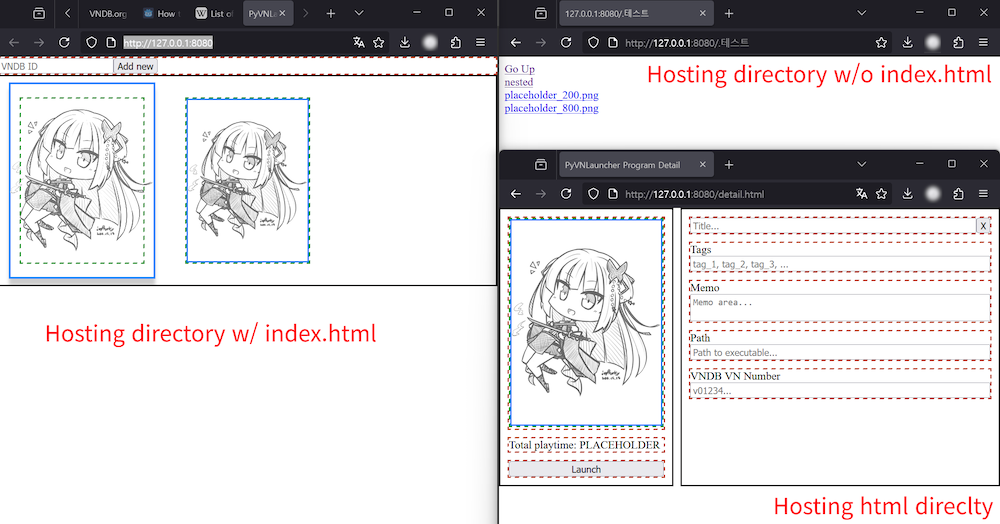
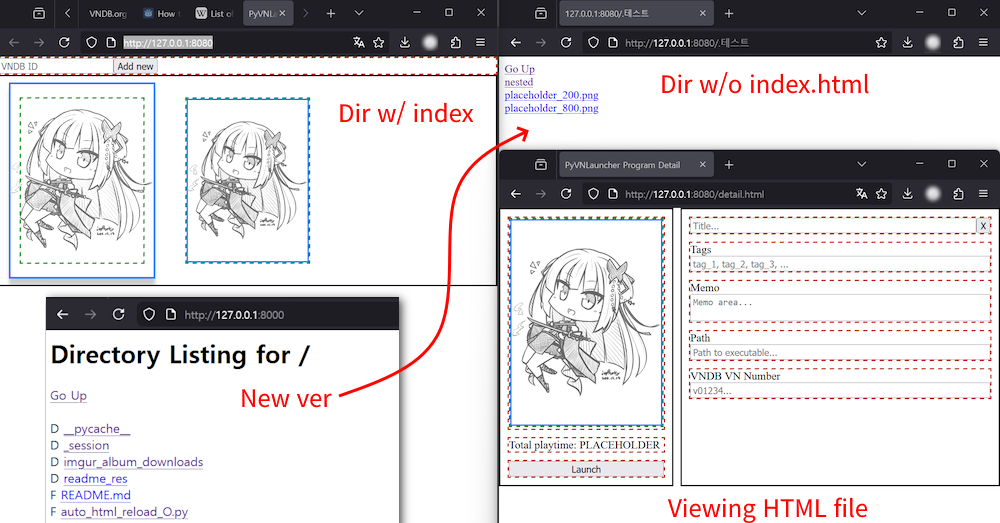
[dumb_pure_async_server_O.py] Backported subset of functionality from dumb_trio_api_server_m.py; Readme update

diff --git a/SingleScriptTools/dumb_pure_async_server_O.py b/SingleScriptTools/dumb_pure_async_server_O.py
@@ -5,6 +5,8 @@ Provides minimal-escape-protected file listing interface by default, can also se
 
 Rewrite of [stackoverflow answer](https://stackoverflow.com/a/70649803) I wrote.
 
+For slightly better structure, refer `dumb_pure_async_api_server_m.py`.
+
 ![](readme_res/dumb_async_server.png)
 
 :Author: jupiterbjy@gmail.com
@@ -13,7 +15,6 @@ Rewrite of [stackoverflow answer](https://stackoverflow.com/a/70649803) I wrote.
 import asyncio
 import pathlib
 from pprint import pprint
-from typing import Iterator
 from urllib.parse import unquote, quote
 from functools import partial
 
@@ -22,11 +23,34 @@ from functools import partial
 
 # --- Utilities ---
 
+def sanitize_path(root: pathlib.Path, rel_path: str) -> pathlib.Path | None:
+    """Sanitizes `subdir` relative to root.
+
+    Args:
+        root: Root directory currently being served
+        rel_path: Subdirectory relative to root
+
+    Returns:
+        Sanitized path or None if invalid
+    """
+
+    p = root / pathlib.PurePosixPath(rel_path)
+
+    # try normalizing dir, aka resolving `/../../bla` things
+    try:
+        p = p.resolve(strict=True)
+    except (FileNotFoundError, RuntimeError, OSError):
+        return None
+
+    # prevent escape by checking if root exists in parent list
+    if root != p and root not in p.parents:
+        return None
+
+    return p
+
 
 class HTTPUtils:
     """HTTP Header creation helper class"""
-
-    _SUFFIX = "Connection: close\r\n\r\n"
 
     _RESP_HEADER = {
         200: " 200 OK\r\n",
@@ -34,10 +58,6 @@ class HTTPUtils:
         404: " 404 Not Found\r\n",
         405: " 405 Method Not Allowed\r\n",
     }
-
-    _RESP_CONTENT_TEMPLATE = (
-        "Content-Type: {content_type}\r\nContent-Length: {content_len}\r\n"
-    )
 
     @classmethod
     def create_resp_header(
@@ -55,19 +75,26 @@ class HTTPUtils:
             HTTP response header string
         """
 
-        if not content_type:
-            return "".join((http_ver, cls._RESP_HEADER[status], cls._SUFFIX))
-
         return "".join(
             (
                 http_ver,
                 cls._RESP_HEADER[status],
-                cls._RESP_CONTENT_TEMPLATE.format(
-                    content_type=content_type, content_len=content_len
-                ),
-                cls._SUFFIX,
+                "Content-Type: {}\r\nContent-Length: {}\r\n".format(
+                    content_type, content_len
+                ) if content_len else "",
+                "Connection: close\r\n\r\n" if http_ver.startswith("HTTP/1") else "\r\n\r\n",
             )
         )
+
+    @classmethod
+    def create_html_resp(cls, http_ver, content: bytes) -> tuple[str, bytes]:
+        """Syntax sugar for creating HTML response header and pairing with body"""
+        return cls.create_resp_header(http_ver, 200, "text/html", len(content)), content
+
+    @classmethod
+    def create_bytes_resp(cls, http_ver, content: bytes) -> tuple[str, bytes]:
+        """Syntax sugar for creating octet stream response header and pairing with body"""
+        return cls.create_resp_header(http_ver, 200, "application/octet-stream", len(content)), content
 
     @staticmethod
     def parse_req(raw_req: str) -> dict[str, str]:
@@ -120,33 +147,59 @@ async def read_all(reader: asyncio.StreamReader, chunk_size: int = 1024) -> str:
 
 # --- Logics ---
 
-
-def _dir_html_link_gen(abs_dir: pathlib.Path, root: pathlib.Path) -> Iterator[str]:
-    """Yields anchor(`<a>`) elements for use as directory listing.
-    HTML files will not use `download` attribute and will be served as static files.
+def _generate_dir_listing_html(root: pathlib.Path, sanitized_abs_sub_path: pathlib.Path) -> str:
+    """Generates directory listing HTML for given directory.
 
     Args:
-        abs_dir: absolute path to dir to be listed
+        root: Root directory currently being served
+        sanitized_abs_sub_path: Absolute Subdirectory path that was sanitized
 
-    Yields:
-        html anchor element string
+    Returns:
+        HTML string
     """
 
-    for sub_path in abs_dir.iterdir():
-        # calc url path
-        relative = quote(
-            "/"
-            if abs_dir == root
-            else f"/{str(abs_dir.relative_to(root)).removeprefix("./")}/"
-        )
-        path_name = quote(sub_path.name)
+    # prep link for stepping back. Will trigger for root but better for safeguarding
+    try:
+        parent_str = sanitized_abs_sub_path.parent.relative_to(root).as_posix()
+        if parent_str == ".":
+            parent_str = ""
 
-        # if dir or html file then set href to it
-        if sub_path.is_dir() or sub_path.suffix.lower() == ".html":
-            yield f'<a href="{relative}{path_name}">{path_name}</a>'
+    except ValueError:
+        parent_str = ""
+
+    relative = quote(
+        "/"
+        if sanitized_abs_sub_path == root
+        else f"/{sanitized_abs_sub_path.relative_to(root).as_posix()}/"
+    )
+
+    lines: list[str] = [
+        f'<meta charset="UTF-8">\n'
+        f'<h1>Directory Listing for {relative}</h1>\n'
+        f'<a href="/{quote(parent_str)}">Go Up</a><br>'
+    ]
+
+    # sort stuff by name for each, so we can put dir first then file
+    listing = [*sanitized_abs_sub_path.iterdir()]
+    dirs = sorted([p for p in listing if p.is_dir()], key=lambda p: p.name)
+    files = sorted([p for p in listing if p.is_file()], key=lambda p: p.name)
+
+    for sub_p in dirs + files:
+
+        # make sure it's escaped
+        path_name = quote(sub_p.name)
+
+        # if dir or html, then set href to it
+        if sub_p.is_dir():
+            lines.append(f'D <a href="{relative}{path_name}">{sub_p.name}</a>')
+
+        elif sub_p.suffix.lower() == ".html":
+            lines.append(f'H <a href="{relative}{path_name}">{sub_p.name}</a>')
+
         else:
-            # else set as download
-            yield f'<a href="{relative}{path_name}" download="{path_name}">{path_name}</a>'
+            lines.append(f'F <a href="{relative}{path_name}" download="{path_name}">{sub_p.name}</a>')
+
+    return "<br>\n".join(lines)
 
 
 def _create_resp(req_dict: dict[str, str], root: pathlib.Path) -> tuple[str, bytes]:
@@ -155,6 +208,7 @@ def _create_resp(req_dict: dict[str, str], root: pathlib.Path) -> tuple[str, byt
 
     Args:
         req_dict: Parsed request dict
+        root: Currently served root directory
 
     Returns:
         (Header str, Body bytes) tuple
@@ -166,66 +220,27 @@ def _create_resp(req_dict: dict[str, str], root: pathlib.Path) -> tuple[str, byt
     if req_dict["Method"] != "GET":
         return HTTPUtils.create_resp_header(http_ver, 405), b""
 
-    # try normalizing the path
-    dir_ = root.joinpath(unquote(req_dict["Directory"]).removeprefix("/"))
-
-    try:
-        dir_ = dir_.resolve(strict=True)
-
-    except FileNotFoundError:
-        # unreachable path (or you have circular symlink for some reason)
+    dir_ = sanitize_path(root, req_dict["Directory"].removeprefix("/"))
+    if not dir_:
         return HTTPUtils.create_resp_header(http_ver, 404), b""
-
-    # check if it's subdir, if not kick the crap out of it
-    if root != dir_ and root not in dir_.parents:
-        return HTTPUtils.create_resp_header(http_ver, 403), b""
-
-    # TODO: check for permission error
 
     if dir_.is_dir():
 
         # if index.html exists direct to it
-        index_path = dir_ / "index.html"
+        idx_p = dir_ / "index.html"
 
-        if index_path.exists():
-            attach = index_path.read_text().encode("utf8")
-            return (
-                HTTPUtils.create_resp_header(http_ver, 200, "text/html", len(attach)),
-                attach,
-            )
+        if idx_p.exists():
+            return HTTPUtils.create_html_resp(http_ver, idx_p.read_text("utf8").encode("utf8"))
 
         # otherwise serve directory
-        try:
-            parent_str = str(dir_.parent.relative_to(root))
-            if parent_str == ".":
-                parent_str = ""
-
-        except ValueError:
-            parent_str = ""
-
-        parent_dir = f'<a href="/{quote(parent_str)}">Go Up</a><br>'
-        attach = (parent_dir + "<br>".join(_dir_html_link_gen(dir_, root))).encode("utf8")
-        return (
-            HTTPUtils.create_resp_header(http_ver, 200, "text/html", len(attach)),
-            attach,
-        )
+        return HTTPUtils.create_html_resp(http_ver, _generate_dir_listing_html(root, dir_).encode("utf8"))
 
     # is this html file?
     if dir_.suffix.lower() == ".html":
-        attach = dir_.read_text().encode("utf8")
-        return (
-            HTTPUtils.create_resp_header(http_ver, 200, "text/html", len(attach)),
-            attach,
-        )
+        return HTTPUtils.create_html_resp(http_ver, dir_.read_text().encode("utf8"))
 
     # otherwise just send as octet stream
-    attach = dir_.read_bytes()
-    return (
-        HTTPUtils.create_resp_header(
-            http_ver, 200, "application/octet-stream", len(attach)
-        ),
-        attach,
-    )
+    return HTTPUtils.create_bytes_resp(http_ver, dir_.read_bytes())
 
 
 async def tcp_handler(r: asyncio.StreamReader, w: asyncio.StreamWriter, root: pathlib.Path = pathlib.Path(".")):
@@ -252,15 +267,12 @@ async def tcp_handler(r: asyncio.StreamReader, w: asyncio.StreamWriter, root: pa
     print("\nResponding ---")
 
     print(header)
-    w.write(header.encode("utf8"))
-
-    print("--- Body length:", len(body))
-    w.write(body)
+    w.write(header.encode("utf8") + body)
 
     await w.drain()
     w.close()
 
-    print("Response sent")
+    print("--- Response sent")
 
 
 async def serve_files(root: pathlib.Path, address: str = "127.0.0.1", port: int = 8000):

diff --git a/SingleScriptTools/README.md b/SingleScriptTools/README.md
@@ -148,6 +148,8 @@ Provides minimal-escape-protected file listing interface by default, can also se
 
 Rewrite of [stackoverflow answer](https://stackoverflow.com/a/70649803) I wrote.
 
+For slightly better structure, refer `dumb_pure_async_api_server_m.py`.
+
 ![](readme_res/dumb_async_server.png)
 
 
